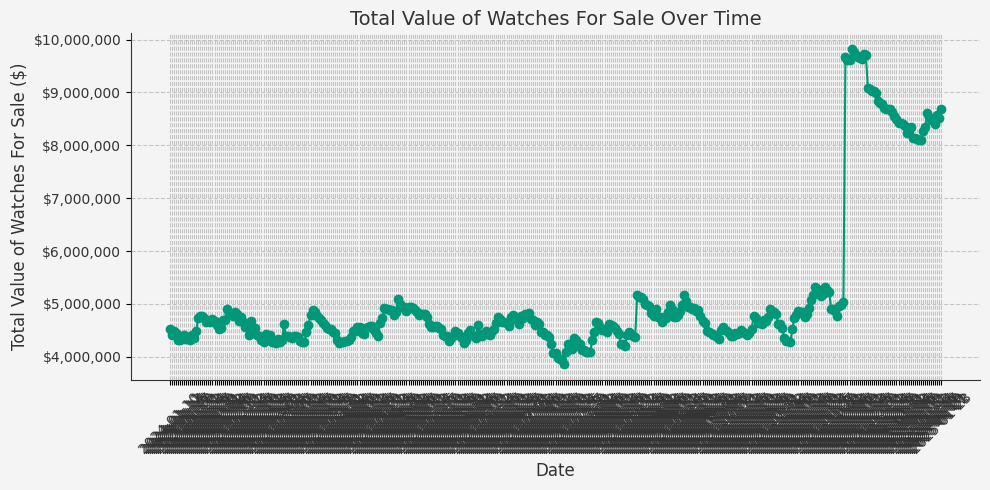
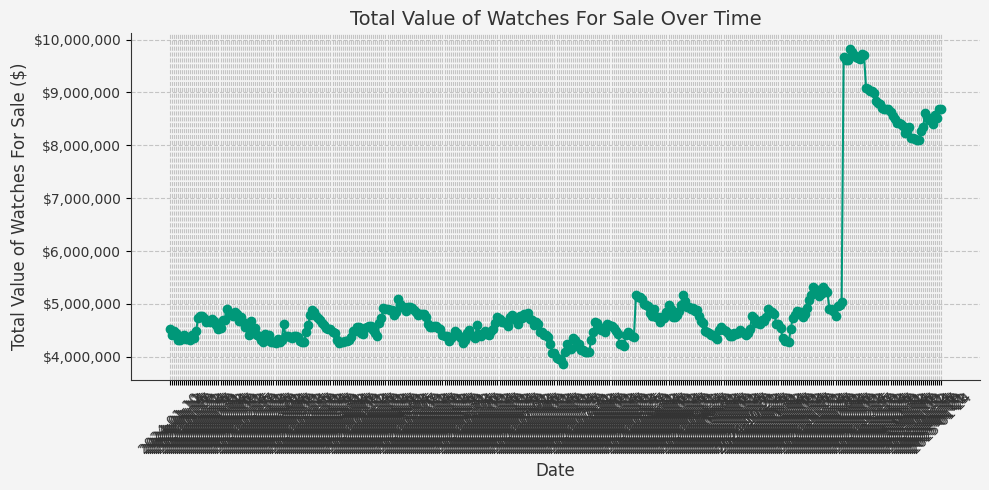
Update docs, portfolio image and portfolio statistics

Changed region(s): [[0.182, 0.0306, 1.0, 0.9796], [0.2427, 0.8265, 0.3033, 0.8571], [0.4853, 0.6429, 0.5157, 0.6735]]

diff --git a/docs/index.html b/docs/index.html
@@ -54,11 +54,11 @@
     </style>
 </head>
 <body>
-    <h1>Watch Data Report - 2025-01-23</h1>
+    <h1>Watch Data Report - 2025-01-24</h1>
     <div class="stats">
         <h3>Summary Statistics</h3>
-        <p>Value of sold Watches: $69,400.00</p>
-        <p>Value of listed Watches: $195,100.00</p>
+        <p>Value of sold Watches: $0.00</p>
+        <p>Value of listed Watches: $0.00</p>
         <p>Value of unsold Watches: $8,696,400.00</p>
     </div>
     <h2>Price Changes Today:</h2>
@@ -85,26 +85,6 @@
     </tr>
   </thead>
   <tbody>
-    <tr>
-      <td>2023 Rolex Daytona 116500Ln Black Dial With Box And Papers</td>
-      <td>$24,850.00</td>
-      <td><a href="https://tropicalwatch.com/watches/2023-rolex-daytona-116500ln-black-dial-with-box-and-papers/604p" target="_blank">Link</a></td>
-    </tr>
-    <tr>
-      <td>1990 Rolex 18K Yg Zenith Daytona 16528 White Inverted "6" Dial</td>
-      <td>$35,850.00</td>
-      <td><a href="https://tropicalwatch.com/watches/1990-rolex-18k-yg-zenith-daytona-16528-white-inverted-6-dial/amgy" target="_blank">Link</a></td>
-    </tr>
-    <tr>
-      <td>2023 Rolex 18K Rg Daytona 116515Ln Chocolate Dial With Box And Papers</td>
-      <td>$37,550.00</td>
-      <td><a href="https://tropicalwatch.com/watches/2023-rolex-18k-rg-daytona-116515ln-chocolate-dial-with-box-and-papers/3xby" target="_blank">Link</a></td>
-    </tr>
-    <tr>
-      <td>2021 Rolex Platinum Day-Date 116506 Glacier Dial With Box And Papers</td>
-      <td>$96,850.00</td>
-      <td><a href="https://tropicalwatch.com/watches/2021-rolex-platinum-day-date-116506-glacier-dial-with-box-and-papers/mpxs" target="_blank">Link</a></td>
-    </tr>
   </tbody>
 </table>
 
@@ -118,26 +98,6 @@
     </tr>
   </thead>
   <tbody>
-    <tr>
-      <td>1969 Rolex 18K Yg Datejust 1601 No Lume Champagne Dial</td>
-      <td>Sold</td>
-      <td><a href="https://tropicalwatch.com/watches/1969-rolex-18k-yg-datejust-1601-no-lume-champagne-dial/pm4p" target="_blank">Link</a></td>
-    </tr>
-    <tr>
-      <td>1998 Rolex Ladies Two-Tone Oyster Perpetual 67183 Grey 3, 6, 9 Dial</td>
-      <td>Sold</td>
-      <td><a href="https://tropicalwatch.com/watches/1998-rolex-ladies-two-tone-oyster-perpetual-67183-grey-3-6-9-dial/ixrd" target="_blank">Link</a></td>
-    </tr>
-    <tr>
-      <td>1987 Rolex Explorer Ii 16550 Black Rail Dial</td>
-      <td>Sold</td>
-      <td><a href="https://tropicalwatch.com/watches/1987-rolex-explorer-ii-16550-black-rail-dial/mctw" target="_blank">Link</a></td>
-    </tr>
-    <tr>
-      <td>1996 Rolex 18K Yg Daytona 16528 Mop Arabic Dial</td>
-      <td>Sold</td>
-      <td><a href="https://tropicalwatch.com/watches/1996-rolex-18k-yg-daytona-16528-mop-arabic-dial/mx6p" target="_blank">Link</a></td>
-    </tr>
   </tbody>
 </table>
 
